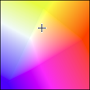
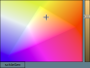
add color indicators

diff --git a/widgets/colorpicker.html b/widgets/colorpicker.html
@@ -663,13 +663,33 @@
 					var cmd = '{"transitiontime":' + data.transitionTime + ',"xy":"' + xy[0] + ',' + xy[1] + '"}';
 					vis.setValue(cmd_id, cmd);
                 });
+
+                var onChange = function () {
+                    redraw();
+                };
+
+                vis.states.bind(xy_id    + '.val', onChange);
             }
+        },
+        hueindicatorxy: function (el, data) {
+            data = data._data ? JSON.parse(JSON.stringify(data._data)) : data;
+            data.gamut = typeof data.gamut === 'string' ? data.gamut : 'default';
+            var $this = $(el);
 
-            var onChange = function () {
-			    redraw();
-            };
+            if (data['xy-oid']       && data['xy-oid']      !== 'nothing_selected') {
+                var xy_id    = data['xy-oid'];
 
-            vis.states.bind(xy_id    + '.val', onChange);
+                var onChange = function () {
+                    var xyGet = vis.states[xy_id + '.val'] || '0.5,0.5';
+                    if (typeof xyGet !== 'string') xyGet = '0.5,0.5';
+                    xyGet = xyGet.split(',');
+                    var rgb = huepi.HelperXYtoRGBforModel(xyGet[0], xyGet[1], 1, data.gamut);
+                    $this.css("background-color", huepi.HelperRGBToHEX(rgb));
+                };
+
+                vis.states.bind(xy_id    + '.val', onChange);
+                onChange();
+            }
         },
         huepickerct: function (el, data) {
             data = data._data ? JSON.parse(JSON.stringify(data._data)) : data;
@@ -732,13 +752,31 @@
                     var cmd = '{"transitiontime":' + data.transitionTime + ',"ct":"' + ct + '"}';
                     vis.setValue(cmd_id, cmd);
                 });
+
+                var onChange = function () {
+                    redraw();
+                };
+
+                vis.states.bind(ct_id    + '.val', onChange);
             }
+        },
+        hueindicatorct: function (el, data) {
+            data = data._data ? JSON.parse(JSON.stringify(data._data)) : data;
+            var $this = $(el);
 
-            var onChange = function () {
-                redraw();
-            };
+            if (data['ct-oid']       && data['ct-oid']      !== 'nothing_selected') {
+                var ct_id    = data['ct-oid'];
 
-            vis.states.bind(ct_id    + '.val', onChange);
+                var onChange = function () {
+                    var ctGet = parseInt(vis.states[ct_id + '.val']) || 153;
+                    ctGet = Math.max(2000, Math.min(6500, Math.round(Math.pow(10,6)/ctGet)));
+                    var rgb = huepi.HelperColortemperaturetoRGB(ctGet);
+                    $this.css("background-color", huepi.HelperRGBToHEX(rgb));
+                };
+
+                vis.states.bind(ct_id    + '.val', onChange);
+                onChange();
+            }
         }
     };
 
@@ -806,6 +844,27 @@
                     changed.push('ct-oid');
                     vis.views[view].widgets[widgetID].data['ct-oid'] = newId.split('.').slice(0,-1).join('.') + '.ct';
                     vis.widgets[widgetID].data['ct-oid'] = newId.split('.').slice(0,-1).join('.') + '.ct';
+                }
+            }
+            return changed;
+        };
+        vis.binds.colorpicker.changedHUEIndicatorXY = function (widgetID, view, newId, fields) {
+            var xy     = vis.objects[newId];
+            var changed = [];
+
+            // If it is real object and state
+            if (xy && xy.common && xy.type === 'state') {
+                var light   = vis.objects[newId.split('.').slice(0,-1).join('.')];
+
+                if (xy && xy.type === 'state' && !vis.views[view].widgets[widgetID].data['xy-oid']) {
+                    changed.push('xy-oid');
+                    vis.views[view].widgets[widgetID].data['xy-oid'] = newId.split('.').slice(0,-1).join('.') + '.xy';
+                    vis.widgets[widgetID].data['xy-oid'] = newId.split('.').slice(0,-1).join('.') + '.xy';
+                }
+                if (light.native.modelid !== undefined && !vis.views[view].widgets[widgetID].data.gamut) {
+                    changed.push('gamut');
+                    vis.views[view].widgets[widgetID].data.gamut = light.native.modelid;
+                    vis.widgets[widgetID].data.gamut = light.native.modelid;
                 }
             }
             return changed;
@@ -891,7 +950,7 @@
 <script id="tplHUEPickerXY"
 		type="text/ejs"
 		class="vis-tpl"
-		data-vis-prev='<img src="widgets/colorpicker/img/Prev_tplHUEjscolor.png"></img>'
+		data-vis-prev='<img src="widgets/colorpicker/img/Prev_tplHUEPickerXY.png"></img>'
 		data-vis-set="colorpicker"
 		data-vis-type="ctrl,color"
 		data-vis-name="Philips HUE XY-Picker"
@@ -904,10 +963,26 @@
     </div>
 </script>
 
+<script id="tplHUEIndicatorXY"
+		type="text/ejs"
+		class="vis-tpl"
+		data-vis-prev='<img src="widgets/colorpicker/img/Prev_tplHUEIndicatorXY.png"></img>'
+		data-vis-set="colorpicker"
+		data-vis-type="value,color"
+		data-vis-name="Philips HUE XY-Indicator"
+		data-vis-attrs="xy-oid/id/changedHUEIndicatorXY;gamut;"
+>
+    <div class="vis-widget <%== this.data.attr('class') %>" style="width:100px;height:100px;" id="<%= this.data.attr('wid') %>">
+        <div class="vis-widget-body">
+            <div class="hue-indicator-xy" style="width:100%;height:100%;" <%= (el) -> vis.binds.colorpicker.hueindicatorxy(el, data) %> ></div>
+        </div>
+    </div>
+</script>
+
 <script id="tplHUEPickerCT"
 		type="text/ejs"
 		class="vis-tpl"
-		data-vis-prev='<img src="widgets/colorpicker/img/Prev_tplHUEjscolor.png"></img>'
+		data-vis-prev='<img src="widgets/colorpicker/img/Prev_tplHUEPickerCT.png"></img>'
 		data-vis-set="colorpicker"
 		data-vis-type="ctrl,color"
 		data-vis-name="Philips HUE CT-Picker"
@@ -916,6 +991,22 @@
     <div class="vis-widget <%== this.data.attr('class') %>" style="width:100px;height:100px;" id="<%= this.data.attr('wid') %>">
         <div class="vis-widget-body">
             <div class="hue-canvas-ct" style="width:100%;height:100%;cursor:crosshair;" <%= (el) -> vis.binds.colorpicker.huepickerct(el, data) %> ></div>
+        </div>
+    </div>
+</script>
+
+<script id="tplHUEIndicatorCT"
+		type="text/ejs"
+		class="vis-tpl"
+		data-vis-prev='<img src="widgets/colorpicker/img/Prev_tplHUEIndicatorCT.png"></img>'
+		data-vis-set="colorpicker"
+		data-vis-type="value,color"
+		data-vis-name="Philips HUE CT-Indicator"
+		data-vis-attrs="ct-oid/id;"
+>
+    <div class="vis-widget <%== this.data.attr('class') %>" style="width:100px;height:100px;" id="<%= this.data.attr('wid') %>">
+        <div class="vis-widget-body">
+            <div class="hue-indicator-xy" style="width:100%;height:100%;" <%= (el) -> vis.binds.colorpicker.hueindicatorct(el, data) %> ></div>
         </div>
     </div>
 </script>

diff --git a/widgets/colorpicker/js/huepiHelper.js b/widgets/colorpicker/js/huepiHelper.js
@@ -481,3 +481,14 @@ huepi.HelperToStringArray = function(Items) {
   }
 };
 
+/**
+ * @param {object} rgb - rgb values to convert
+ * @returns {string} RGB-HEX-String
+ */
+huepi.HelperRGBToHEX = function (rgb) {
+    function componentToHex(c) {
+        var hex = (Math.round(c*255)).toString(16);
+        return hex.length === 1 ? "0" + hex : hex;
+    }
+    return "#" + componentToHex(rgb.Red) + componentToHex(rgb.Green) + componentToHex(rgb.Blue);
+};
